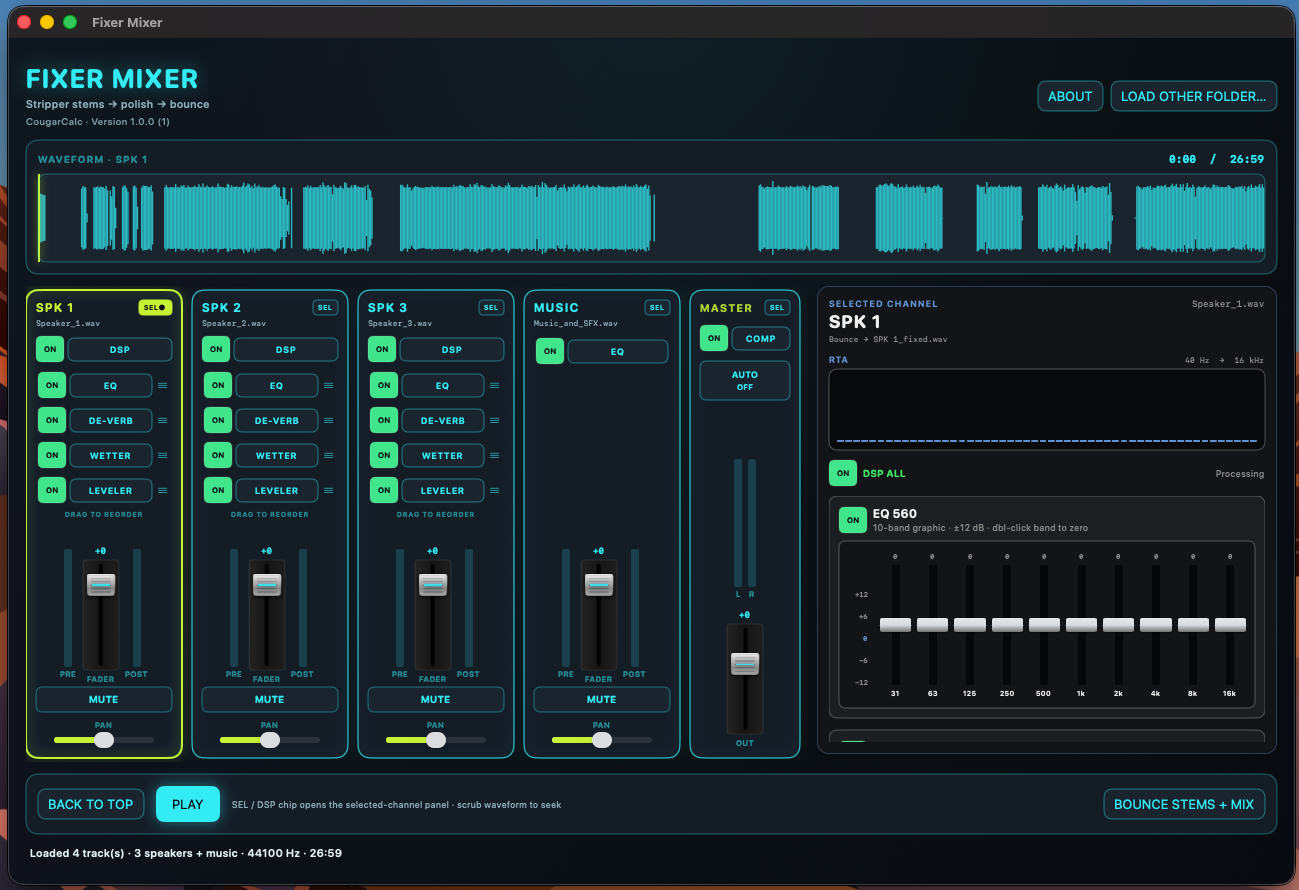
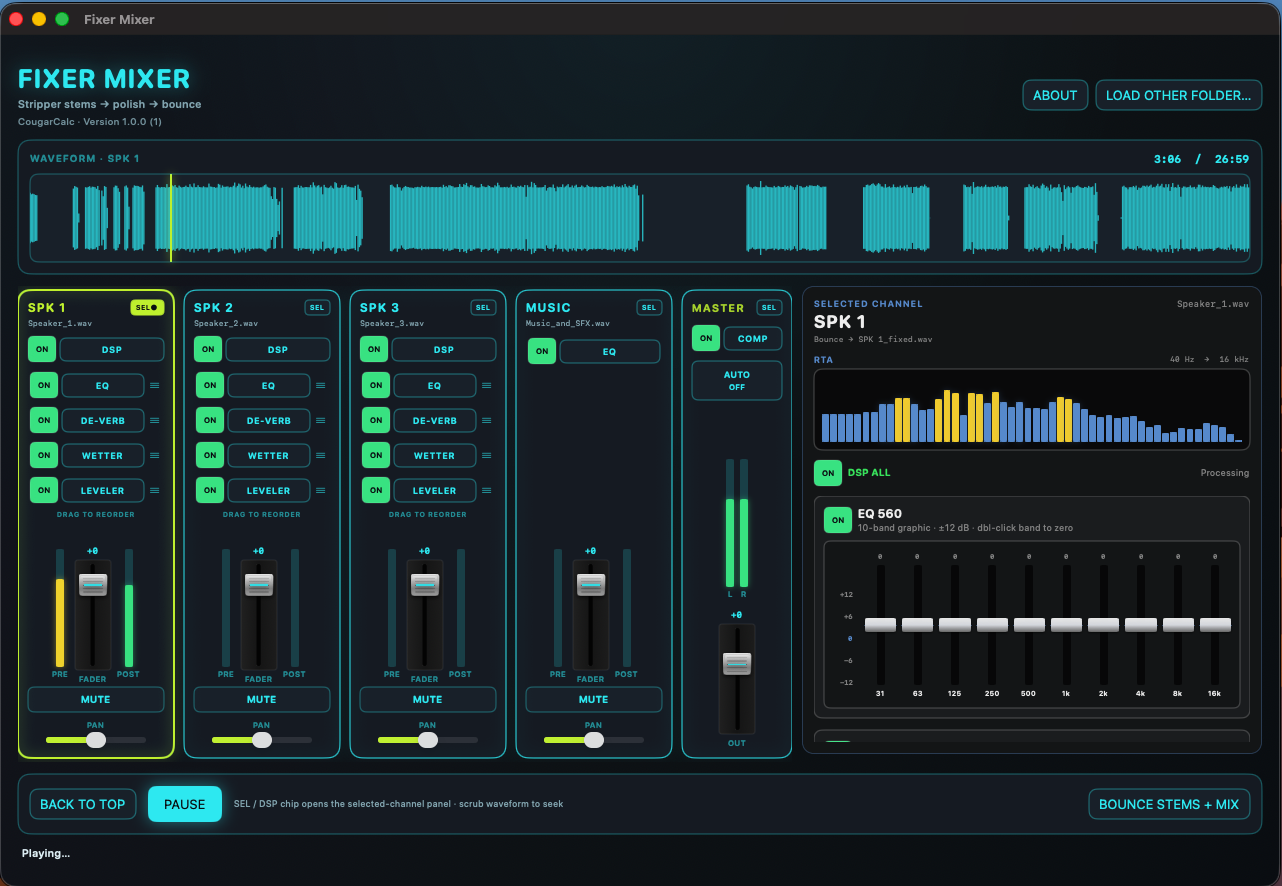
Use live Mac app screenshots for site previews.
Replace the older Stripper, Mixer, and Leveler stills with current windows and stop cropping them on the home and apps cards.

diff --git a/src/pages/HomePage.tsx b/src/pages/HomePage.tsx
@@ -1,26 +1,7 @@
 import { Link } from 'react-router-dom'
+import { AppPreviewCard } from '../components/AppPreviewCard'
+import { APP_PREVIEWS } from '../data/apps.ts'
 import { StubPage } from '../components/StubPage'
-
-const apps = [
-  {
-    name: 'Podcast Stripper',
-    path: '/apps/podcast-stripper',
-    blurb: 'Stereo mix → speaker tracks + music.',
-    image: '/apps/podcast-stripper.png',
-  },
-  {
-    name: 'Fixer Mixer',
-    path: '/apps/fixer-mixer',
-    blurb: 'Stems → polish → bounce.',
-    image: '/apps/fixer-mixer.png',
-  },
-  {
-    name: 'Lil Leveler',
-    path: '/apps/lil-leveler',
-    blurb: 'Final mix → platform loudness.',
-    image: '/apps/lil-leveler.png',
-  },
-]
 
 export function HomePage() {
   return (
@@ -37,47 +18,9 @@ export function HomePage() {
           Browse free tools
         </Link>
       </p>
-      <div
-        style={{
-          display: 'grid',
-          gridTemplateColumns: 'repeat(auto-fit, minmax(220px, 1fr))',
-          gap: 16,
-          marginTop: 36,
-        }}
-      >
-        {apps.map((app) => (
-          <Link
-            key={app.path}
-            to={app.path}
-            style={{
-              display: 'block',
-              background: 'var(--surface)',
-              border: '1px solid var(--border)',
-              borderRadius: 'var(--radius-lg)',
-              padding: 12,
-              textDecoration: 'none',
-              color: 'inherit',
-              boxShadow: 'var(--glow-cyan)',
-            }}
-          >
-            <img
-              src={app.image}
-              alt=""
-              style={{
-                width: '100%',
-                borderRadius: 'var(--radius)',
-                border: '1px solid var(--border)',
-                aspectRatio: '16 / 10',
-                objectFit: 'cover',
-                objectPosition: 'top',
-                background: '#000',
-              }}
-            />
-            <h2 style={{ margin: '12px 0 4px', fontSize: '1.05rem', color: 'var(--text)' }}>
-              {app.name}
-            </h2>
-            <p style={{ margin: 0, color: 'var(--text-muted)', fontSize: 14 }}>{app.blurb}</p>
-          </Link>
+      <div className="app-preview-grid">
+        {APP_PREVIEWS.map((app) => (
+          <AppPreviewCard key={app.path} {...app} />
         ))}
       </div>
     </StubPage>

diff --git a/src/App.tsx b/src/App.tsx
@@ -12,6 +12,7 @@ import { SpeakerDelayPage } from './pages/SpeakerDelayPage'
 import { ToolCategoryPage } from './pages/ToolCategoryPage'
 import { ToolsIndexPage } from './pages/ToolsIndexPage'
 import { ToolsStubPage } from './pages/ToolsStubPage'
+import { APP_PREVIEWS } from './data/apps.ts'
 import './styles/global.css'
 import './styles/tools.css'
 
@@ -24,39 +25,20 @@ export default function App() {
           <Routes>
             <Route path="/" element={<HomePage />} />
             <Route path="/apps" element={<AppsIndexPage />} />
-            <Route
-              path="/apps/podcast-stripper"
-              element={
-                <AppProductPage
-                  name="Podcast Stripper"
-                  blurb="Stereo mix → speaker tracks + music."
-                  image="/apps/podcast-stripper.png"
-                  catalogKey="stripper"
-                />
-              }
-            />
-            <Route
-              path="/apps/fixer-mixer"
-              element={
-                <AppProductPage
-                  name="Fixer Mixer"
-                  blurb="Stems → polish → bounce."
-                  image="/apps/fixer-mixer.png"
-                  catalogKey="mixer"
-                />
-              }
-            />
-            <Route
-              path="/apps/lil-leveler"
-              element={
-                <AppProductPage
-                  name="Lil Leveler"
-                  blurb="Final mix → platform loudness."
-                  image="/apps/lil-leveler.png"
-                  catalogKey="leveler"
-                />
-              }
-            />
+            {APP_PREVIEWS.map((app) => (
+              <Route
+                key={app.path}
+                path={app.path}
+                element={
+                  <AppProductPage
+                    name={app.name}
+                    blurb={app.blurb}
+                    image={app.image}
+                    catalogKey={app.catalogKey}
+                  />
+                }
+              />
+            ))}
             <Route path="/tools" element={<ToolsIndexPage />} />
             <Route path="/audio-live-sound" element={<ToolCategoryPage kind="audio" />} />
             <Route path="/audio-live-sound/speaker-delay" element={<SpeakerDelayPage />} />

diff --git a/src/styles/global.css b/src/styles/global.css
@@ -154,3 +154,53 @@ button:disabled,
   opacity: 0.55;
   cursor: not-allowed;
 }
+
+.app-preview-grid {
+  display: grid;
+  grid-template-columns: repeat(auto-fit, minmax(260px, 1fr));
+  gap: 16px;
+  margin-top: 36px;
+}
+
+.app-preview-card {
+  display: block;
+  background: var(--surface);
+  border: 1px solid var(--border);
+  border-radius: var(--radius-lg);
+  padding: 12px;
+  text-decoration: none;
+  color: inherit;
+  box-shadow: var(--glow-cyan);
+}
+
+.app-preview-card img {
+  width: 100%;
+  height: auto;
+  display: block;
+  border-radius: var(--radius);
+  border: 1px solid var(--border);
+  background: #000;
+}
+
+.app-preview-card h2 {
+  margin: 12px 0 4px;
+  font-size: 1.05rem;
+  color: var(--text);
+}
+
+.app-preview-card p {
+  margin: 0;
+  color: var(--text-muted);
+  font-size: 14px;
+}
+
+.app-preview-full {
+  width: min(100%, 960px);
+  height: auto;
+  display: block;
+  margin-top: 20px;
+  border-radius: var(--radius-lg);
+  border: 1px solid var(--border);
+  box-shadow: var(--glow-cyan);
+  background: #000;
+}

diff --git a/src/pages/AppsIndexPage.tsx b/src/pages/AppsIndexPage.tsx
@@ -1,21 +1,16 @@
-import { Link } from 'react-router-dom'
+import { AppPreviewCard } from '../components/AppPreviewCard'
+import { APP_PREVIEWS } from '../data/apps.ts'
 import { StubPage } from '../components/StubPage'
 
 export function AppsIndexPage() {
   return (
     <StubPage title="Apps">
       <p>Pipeline order: Stripper → Mixer → Leveler.</p>
-      <ul>
-        <li>
-          <Link to="/apps/podcast-stripper">Podcast Stripper</Link>
-        </li>
-        <li>
-          <Link to="/apps/fixer-mixer">Fixer Mixer</Link>
-        </li>
-        <li>
-          <Link to="/apps/lil-leveler">Lil Leveler</Link>
-        </li>
-      </ul>
+      <div className="app-preview-grid">
+        {APP_PREVIEWS.map((app) => (
+          <AppPreviewCard key={app.path} {...app} />
+        ))}
+      </div>
     </StubPage>
   )
 }

diff --git a/src/data/apps.ts b/src/data/apps.ts
@@ -1,0 +1,31 @@
+export type AppPreview = {
+  name: string
+  path: string
+  blurb: string
+  image: string
+  catalogKey: 'stripper' | 'mixer' | 'leveler'
+}
+
+export const APP_PREVIEWS: AppPreview[] = [
+  {
+    name: 'Podcast Stripper',
+    path: '/apps/podcast-stripper',
+    blurb: 'Stereo mix → speaker tracks + music.',
+    image: '/apps/podcast-stripper.png',
+    catalogKey: 'stripper',
+  },
+  {
+    name: 'Fixer Mixer',
+    path: '/apps/fixer-mixer',
+    blurb: 'Stems → polish → bounce.',
+    image: '/apps/fixer-mixer.png',
+    catalogKey: 'mixer',
+  },
+  {
+    name: 'Lil Leveler',
+    path: '/apps/lil-leveler',
+    blurb: 'Final mix → platform loudness.',
+    image: '/apps/lil-leveler.png',
+    catalogKey: 'leveler',
+  },
+]

diff --git a/src/pages/AppProductPage.tsx b/src/pages/AppProductPage.tsx
@@ -24,15 +24,9 @@ export function AppProductPage({ name, blurb, image, catalogKey }: AppProductPag
         <p>Catalog item missing for {catalogKey}.</p>
       )}
       <img
+        className="app-preview-full"
         src={image}
-        alt={`${name} screenshot`}
-        style={{
-          width: 'min(100%, 720px)',
-          marginTop: 20,
-          borderRadius: 'var(--radius-lg)',
-          border: '1px solid var(--border)',
-          boxShadow: 'var(--glow-cyan)',
-        }}
+        alt={`${name} app window`}
       />
     </StubPage>
   )

diff --git a/src/components/AppPreviewCard.tsx b/src/components/AppPreviewCard.tsx
@@ -1,0 +1,12 @@
+import { Link } from 'react-router-dom'
+import type { AppPreview } from '../data/apps.ts'
+
+export function AppPreviewCard({ name, path, blurb, image }: AppPreview) {
+  return (
+    <Link to={path} className="app-preview-card">
+      <img src={image} alt={`${name} app window`} />
+      <h2>{name}</h2>
+      <p>{blurb}</p>
+    </Link>
+  )
+}
